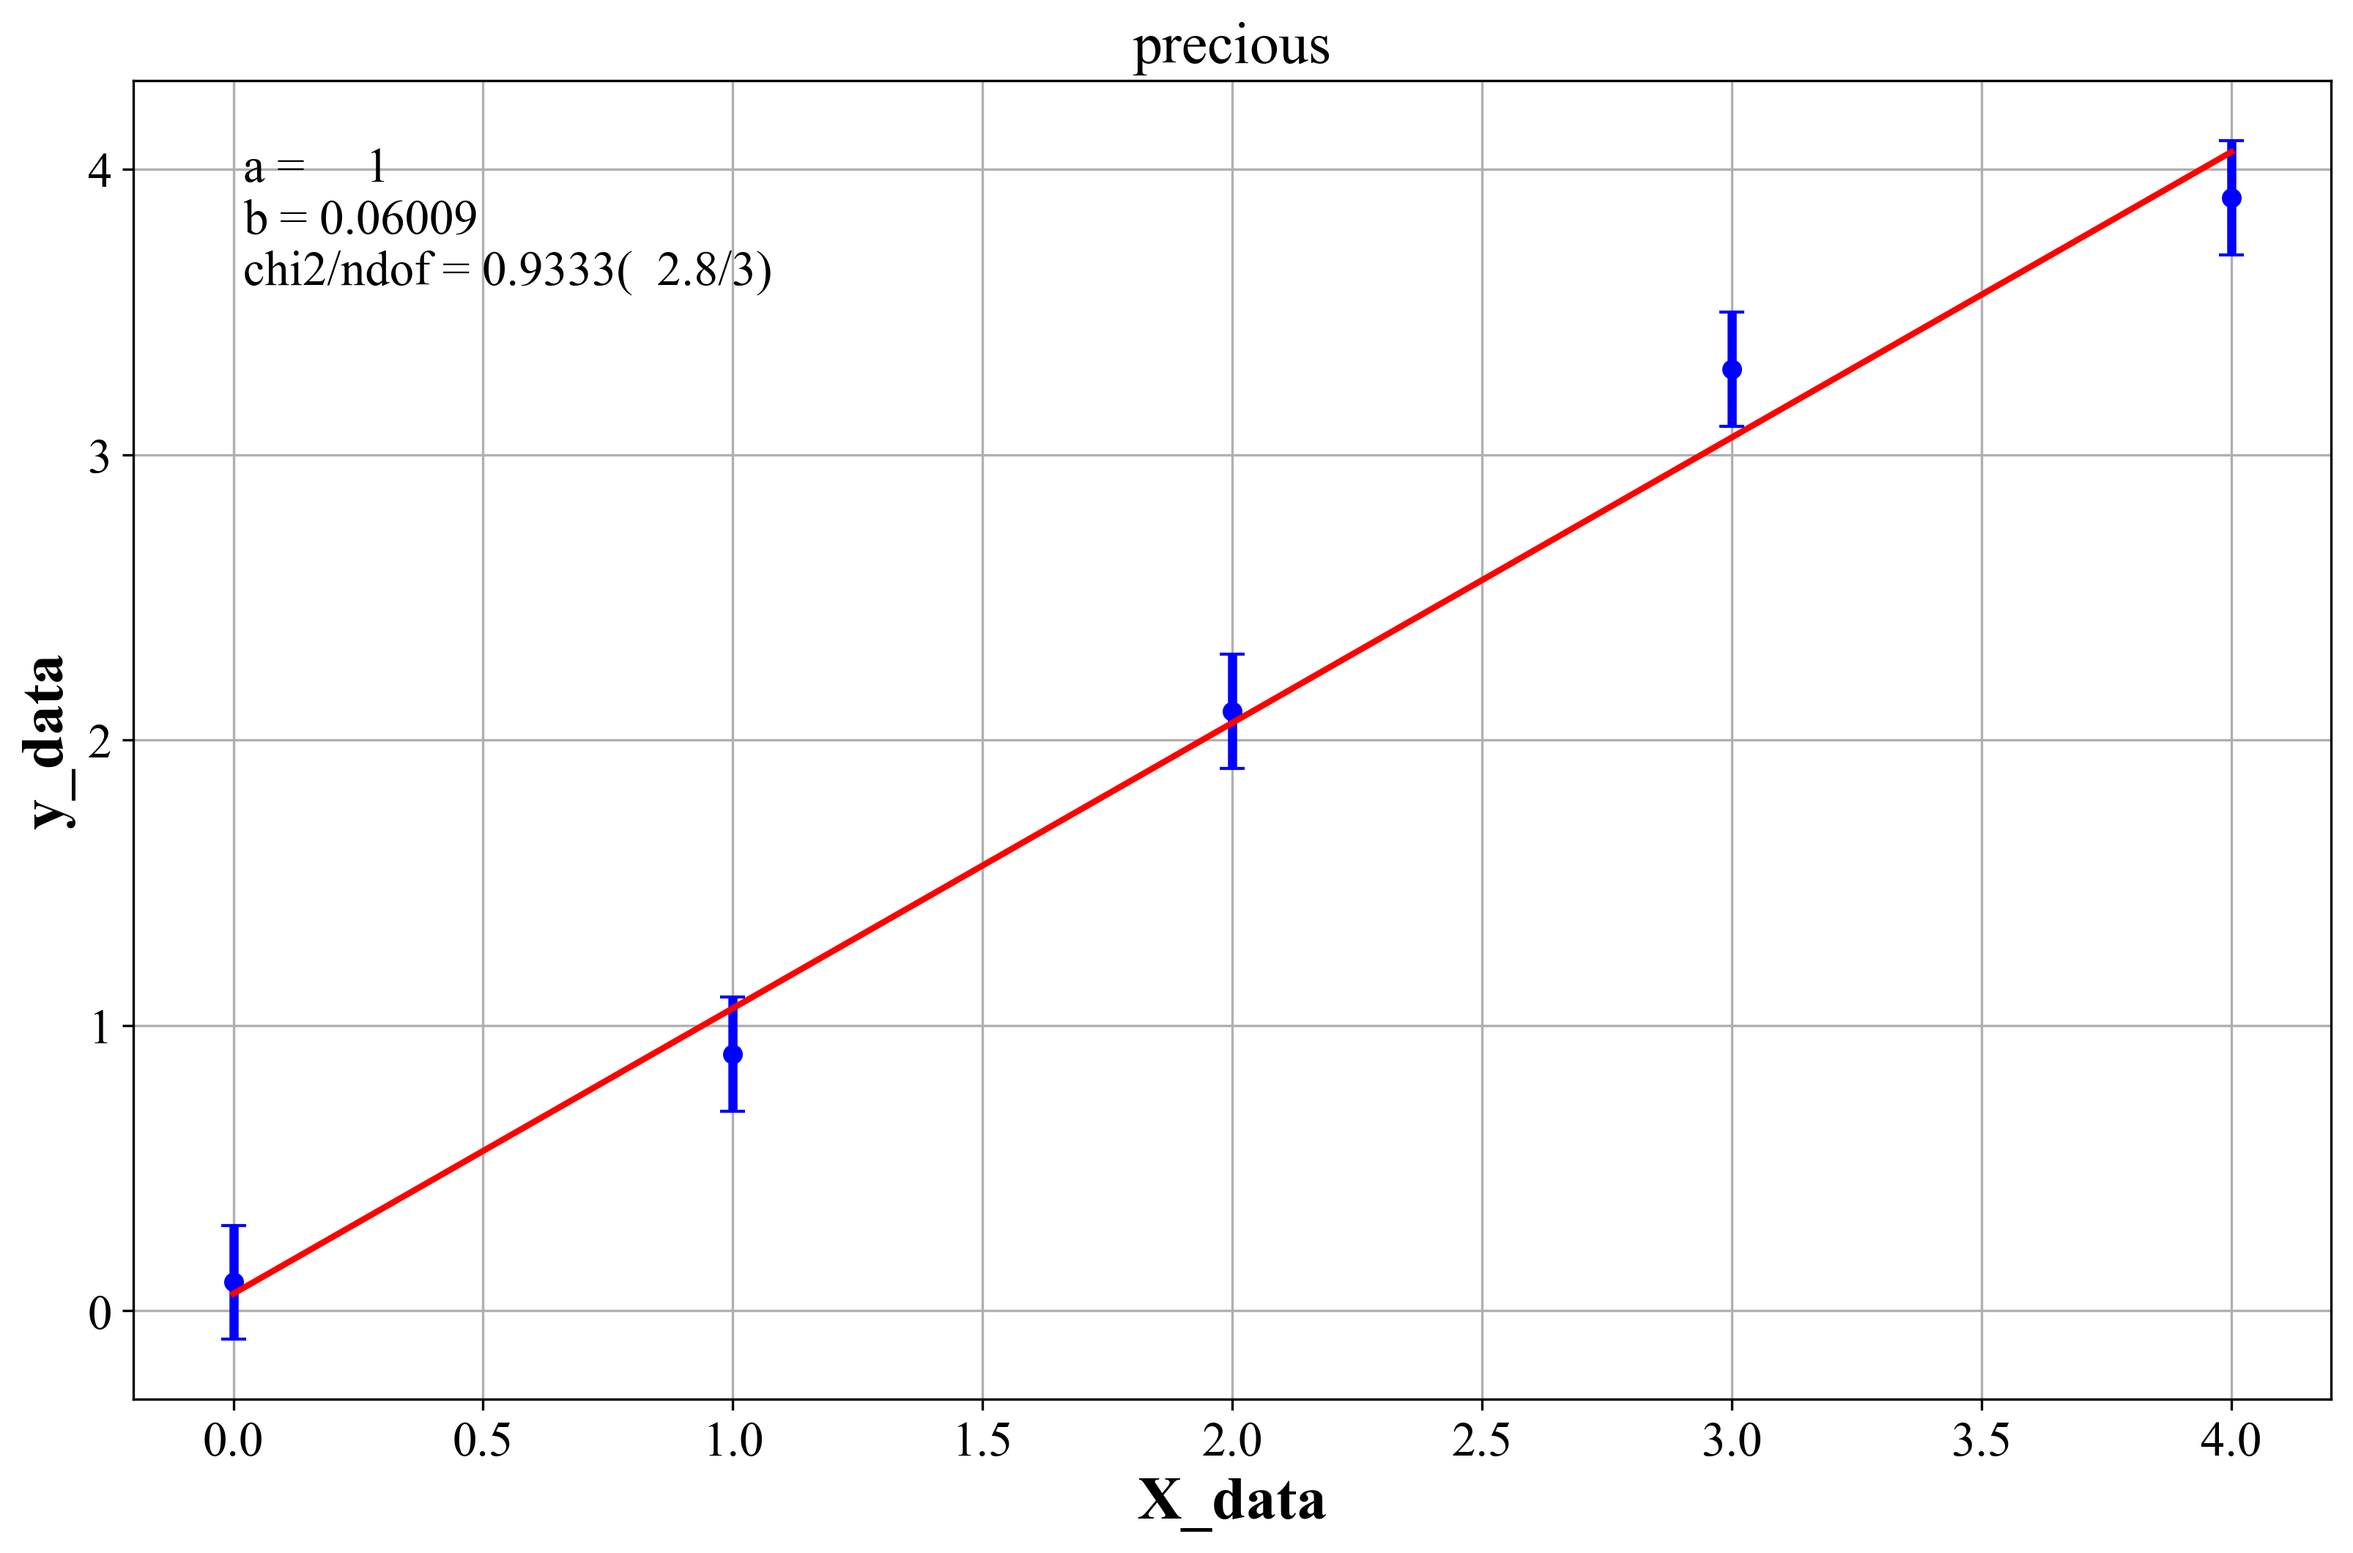
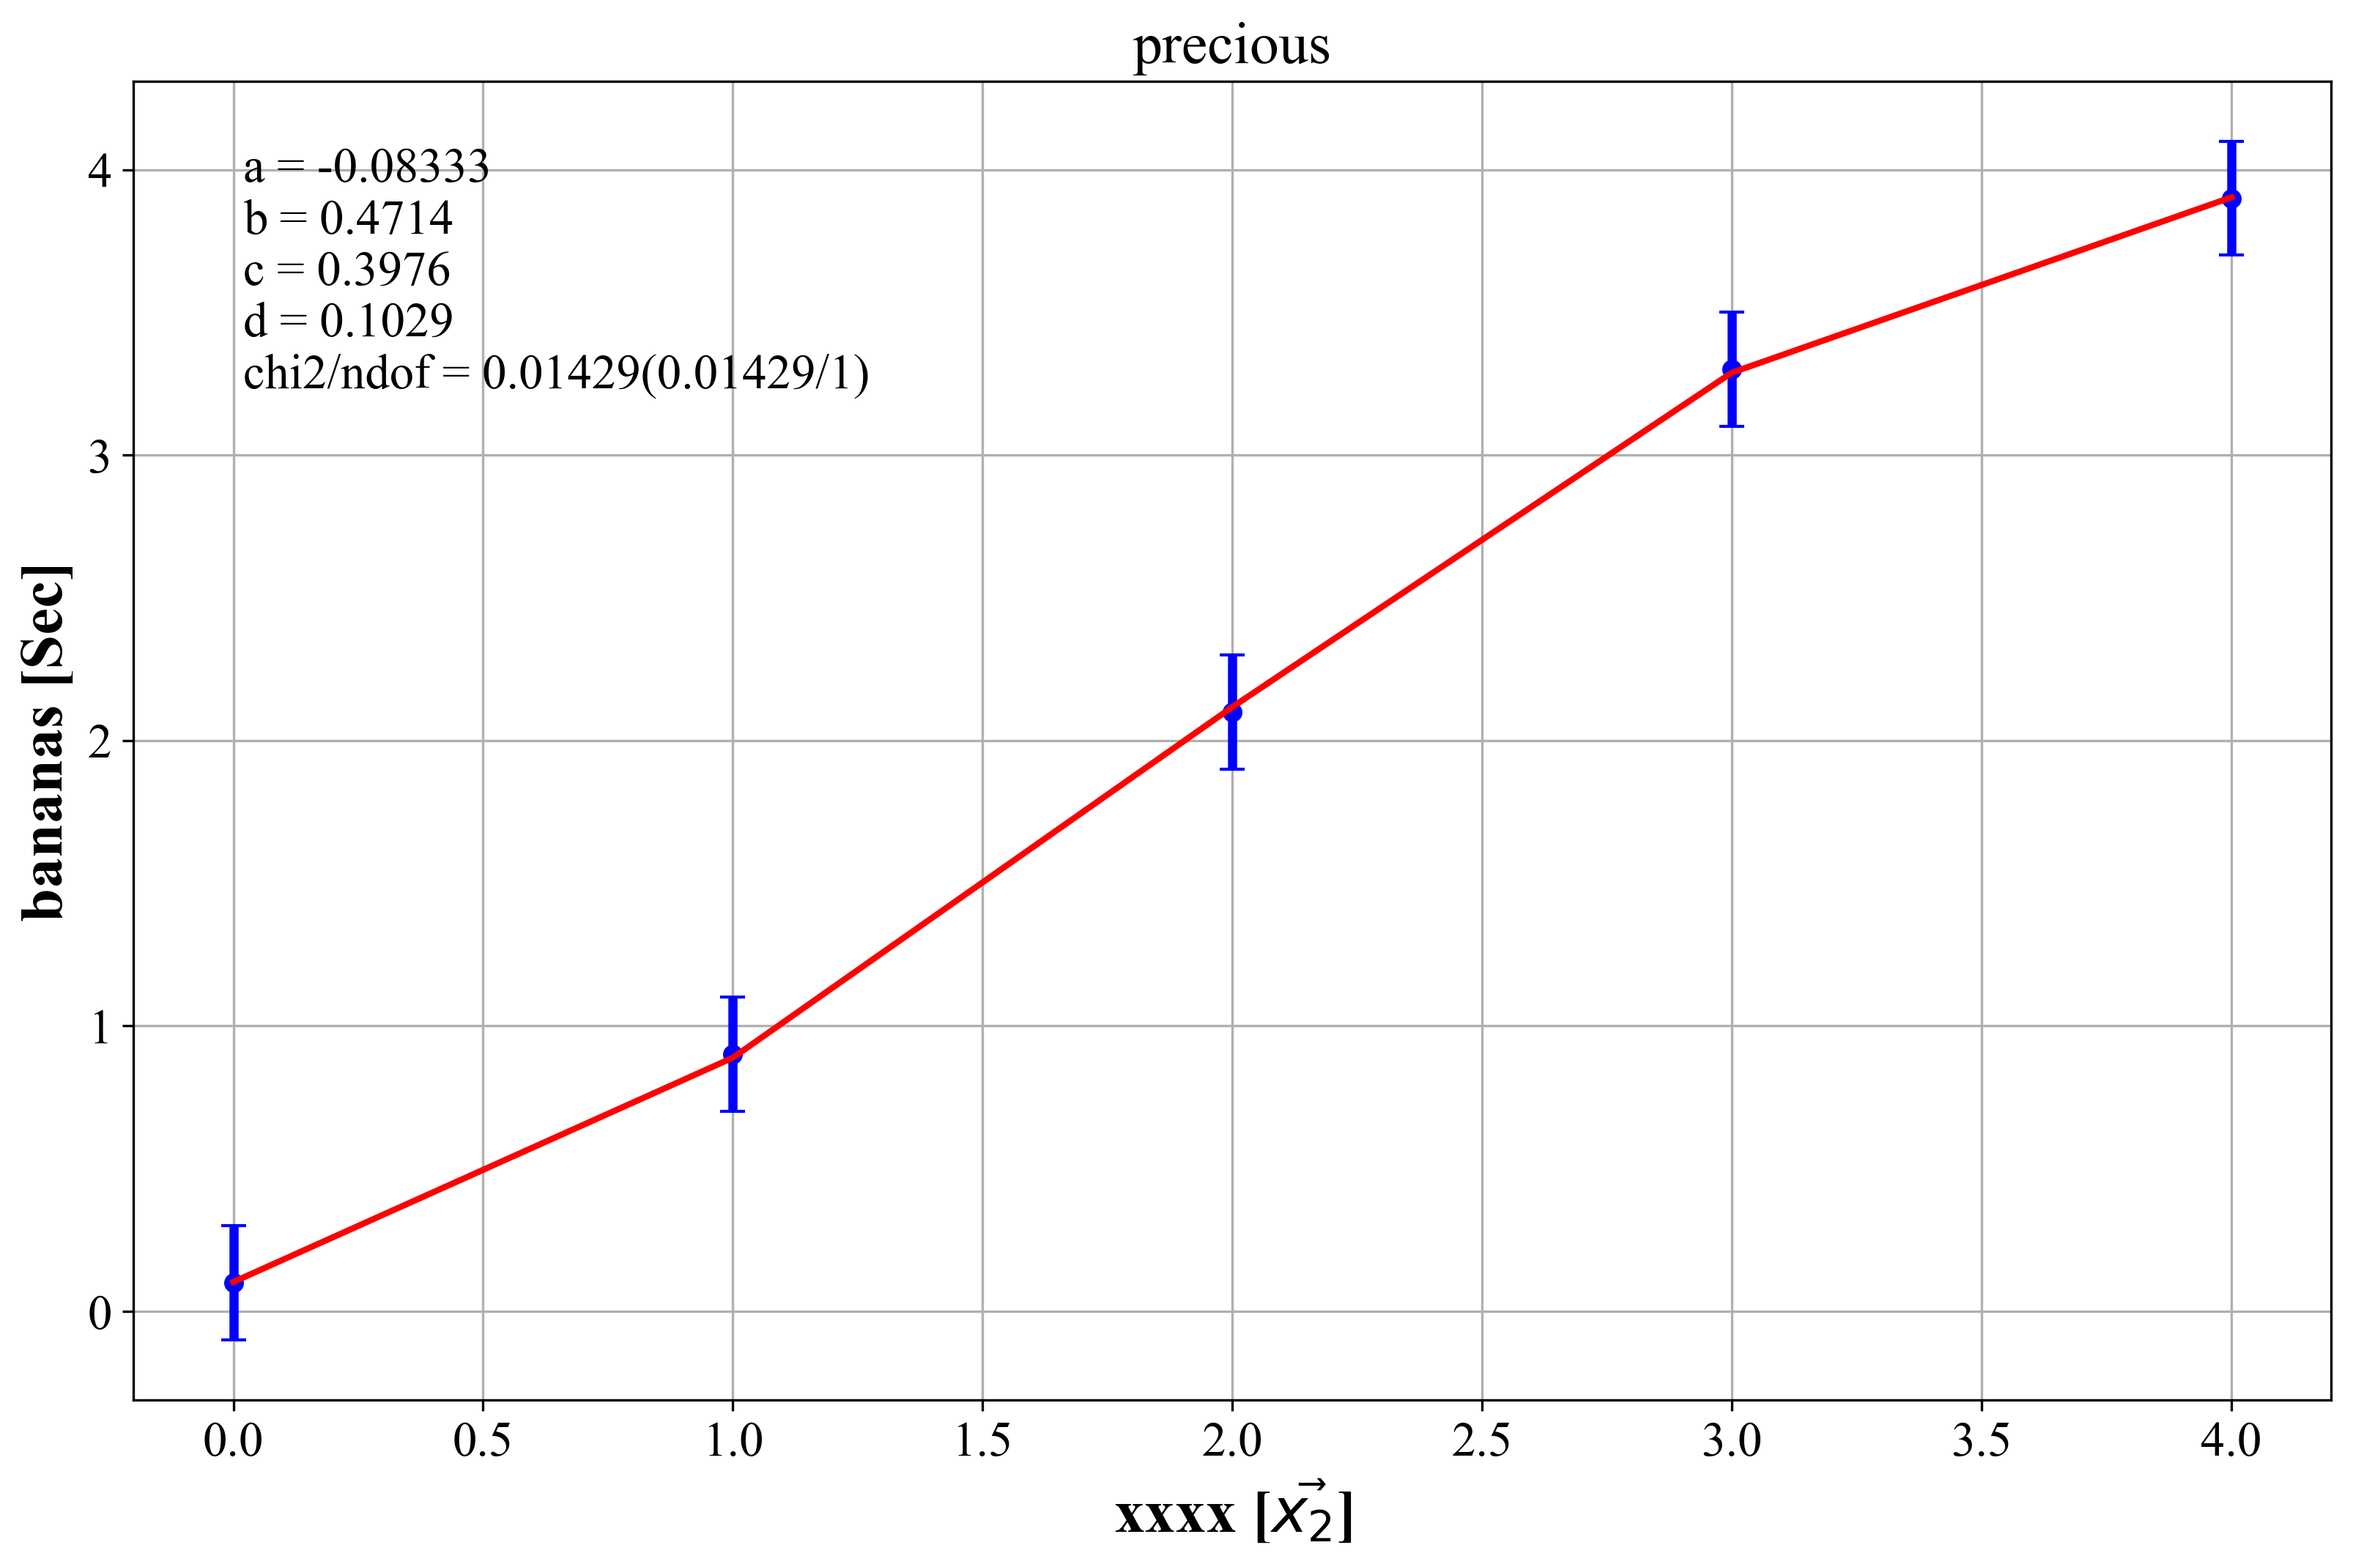
Lab_2 regression module.

diff --git a/util.py b/util.py
@@ -6,7 +6,7 @@ from probfit import Chi2Regression
 from iminuit import Minuit
 from PIL import Image
 
-def chi2Reg_func(model, file_name, sheet_name, x_colName, y_colName, dy_colName):
+def chi2Reg_func(model, file_name, sheet_name, x_colName, y_colName, dy_colName, title, x_axis_name, y_axis_name):
     df = pd.read_excel(file_name, sheet_name=sheet_name)
     x_data = df[x_colName].values   #[x_start:x_stop]
     y_data = df[y_colName].values   #[y_start:y_stop]
@@ -23,24 +23,24 @@ def chi2Reg_func(model, file_name, sheet_name, x_colName, y_colName, dy_colName)
     plt.rc("font", size=16, family="Times New Roman")
     fig = plt.figure(figsize=(10, 6))
     ax = fig.add_axes([0, 0, 1, 1])
-    ax.set_xlabel("X_data", fontdict={"size": 20, "weight": "bold"})
-    ax.set_ylabel("y_data", fontdict={"size": 20, "weight": "bold"})
+    ax.set_xlabel(x_axis_name, fontdict={"size": 20, "weight": "bold"})
+    ax.set_ylabel(y_axis_name, fontdict={"size": 20, "weight": "bold"})
     #ax.errorbar(x=X, y=y, yerr=y_err, xerr=X_err, capsize=4, elinewidth=3, fmt='none', ecolor="blue")
     ax.errorbar(x=x_data, y=y_data, yerr=dy, capsize=4, elinewidth=3, fmt='none', ecolor="blue")
     ax.scatter(x_data, y_data, c='blue', s=30)
     # reg.show(minuit=None,args=opt.values,errors=opt.errors)
     reg.show()  # show with no arguments once again works
-    plt.title('title')
-    plt.savefig('title', dpi=300, bbox_inches='tight')
+    plt.title(title)
+    plt.savefig(title, dpi=300, bbox_inches='tight')
     #plt.show()
-    im = Image.open('title.png')
+    im = Image.open(title + '.png')
     st.image(im)
 
-    # Now must make an option to download the image (not hard.. see documentation or 'testing_shit' file).
+    # Now must make an option to DOWNLOAD the image (not hard.. see documentation or 'testing_shit' file).
 
 
 
-def effVarChi2Reg_func(model, file_name, sheet_name, x_data, y_data, dy, dx):
+def effVarChi2Reg_func(model, file_name, sheet_name, x_data, y_data, dy, dx, title, x_axis_name, y_axis_name):
     st.write('effVarChi2Reg_func')
 
 

diff --git a/Lab_app.py b/Lab_app.py
@@ -4,6 +4,7 @@ import numpy as np
 import pandas as pd
 import time
 from util import chi2Reg_func, effVarChi2Reg_func
+from bgu_physics_lab_b.regression import Chi2Reg, EffVarChi2Reg
 
 st.set_page_config(page_title='Physics Lab app!')
 #st.set_page_config(icon = --) Need to pass an image object (using PIL).
@@ -31,7 +32,7 @@ st.write("""
 """)
 
 # Get the name of the excel file of the user:
-file_name = st.text_input('please insert the name of your excel file: ')
+file_name = st.text_input('please insert the name of your excel file: ') + '.xlsx'
 # Note: Concatenate an '.xlsx' to the end of the file name inserted by the user, so he will have to insert only the name of the file itself.
 
 
@@ -45,6 +46,10 @@ dx_colName = st.text_input('dx data column name:')
 
 # Note1: Can (should) ask here for some initial values and limits for the parameters.
 # Note2: Can display the data here, or ask the user if he wishes to see the data to make sure it's good.
+
+title = st.text_input('title:')
+x_axis_name = st.text_input('x axis title:')
+y_axis_name = st.text_input('y axis title:')
 
 # Ask the user to choose a model from the printed options:
 model_str = st.radio('please choose a model from the following:', ('None', 'Linear', 'Power', 'Exponential', 'Cosine', 'Poly_2', 'Poly_3', 'normalised Gaussian', 'Gaussian', 'Poisson', 'Constant'))
@@ -80,9 +85,9 @@ if not model_str == 'None':
 
     # Check weather the user inserted a dx column name, and use appropriate function.
     if dx_colName == '':
-        chi2Reg_func(model, file_name, sheet_name, x_colName, y_colName, dy_colName)
+        chi2Reg_func(model, file_name, sheet_name, x_colName, y_colName, dy_colName, title, x_axis_name, y_axis_name)
     else:
-        effVarChi2Reg_func(model, file_name, sheet_name, x_colName, y_colName, dy_colName, dx_colName)
+        effVarChi2Reg_func(model, file_name, sheet_name, x_colName, y_colName, dy_colName, title, dx_colName, x_axis_name, y_axis_name)
 
 
 
